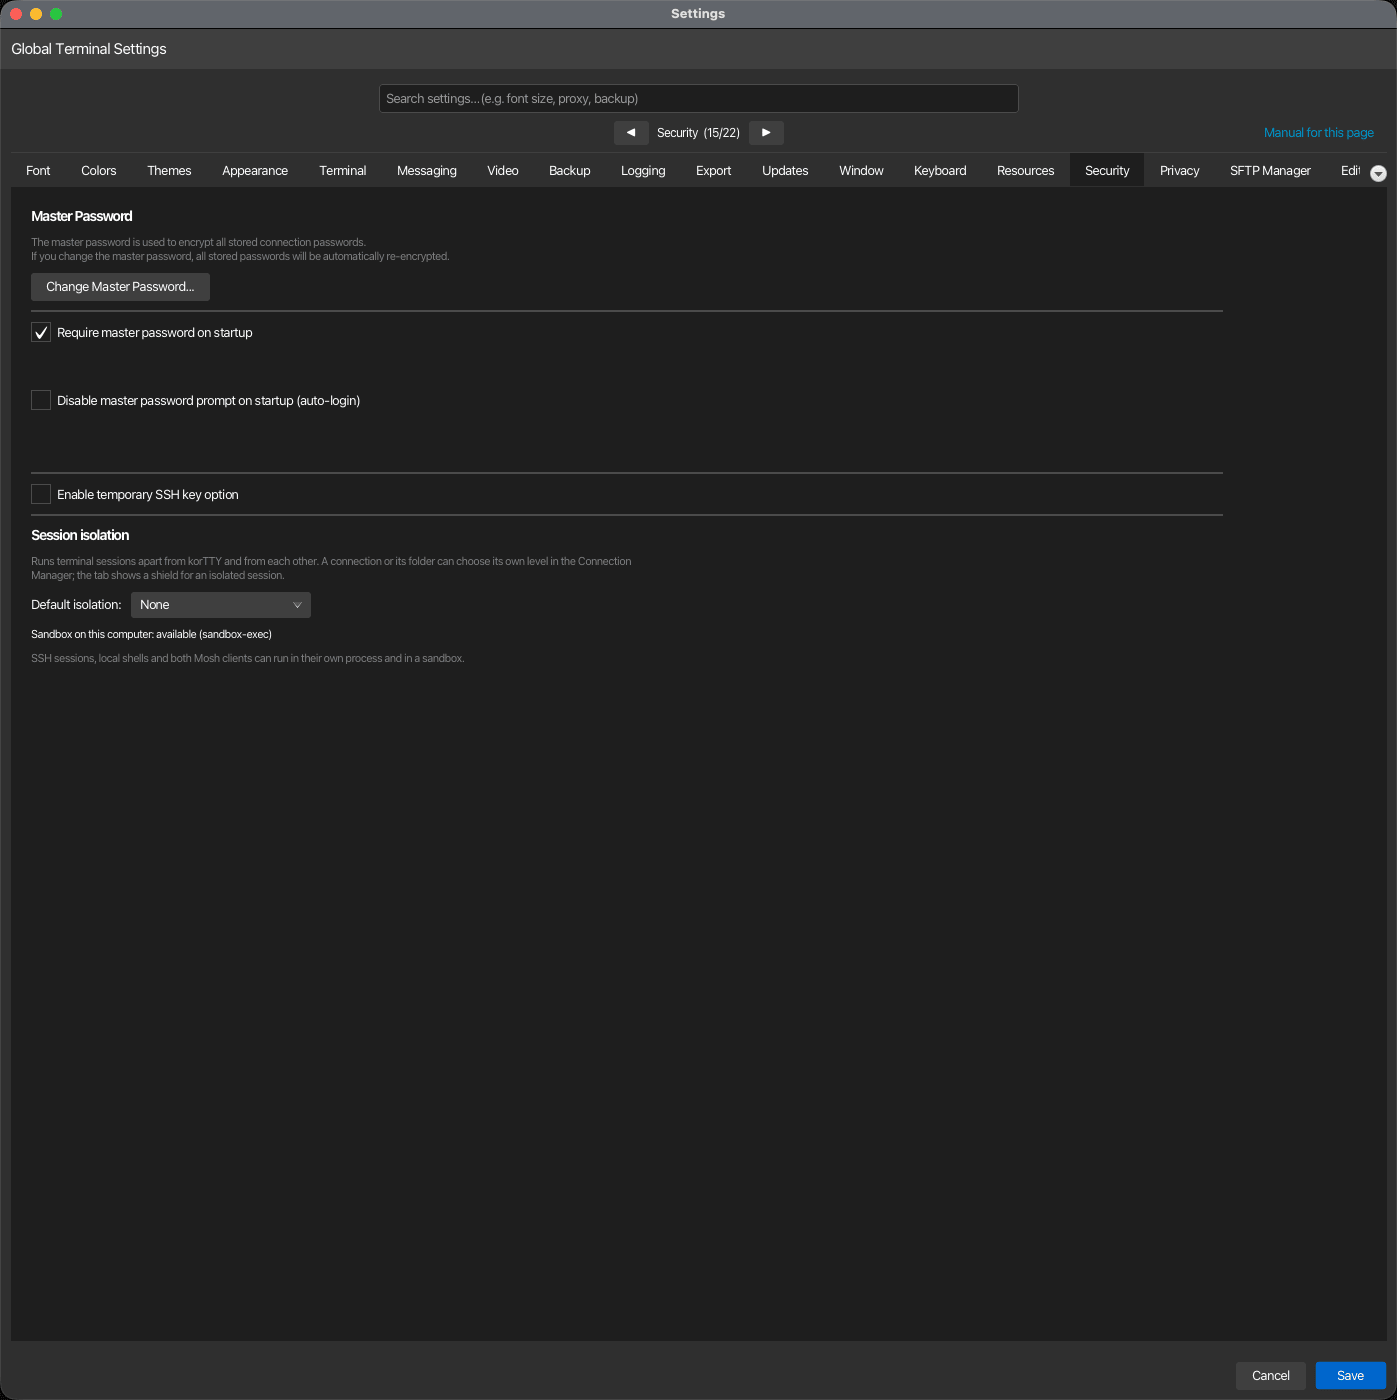
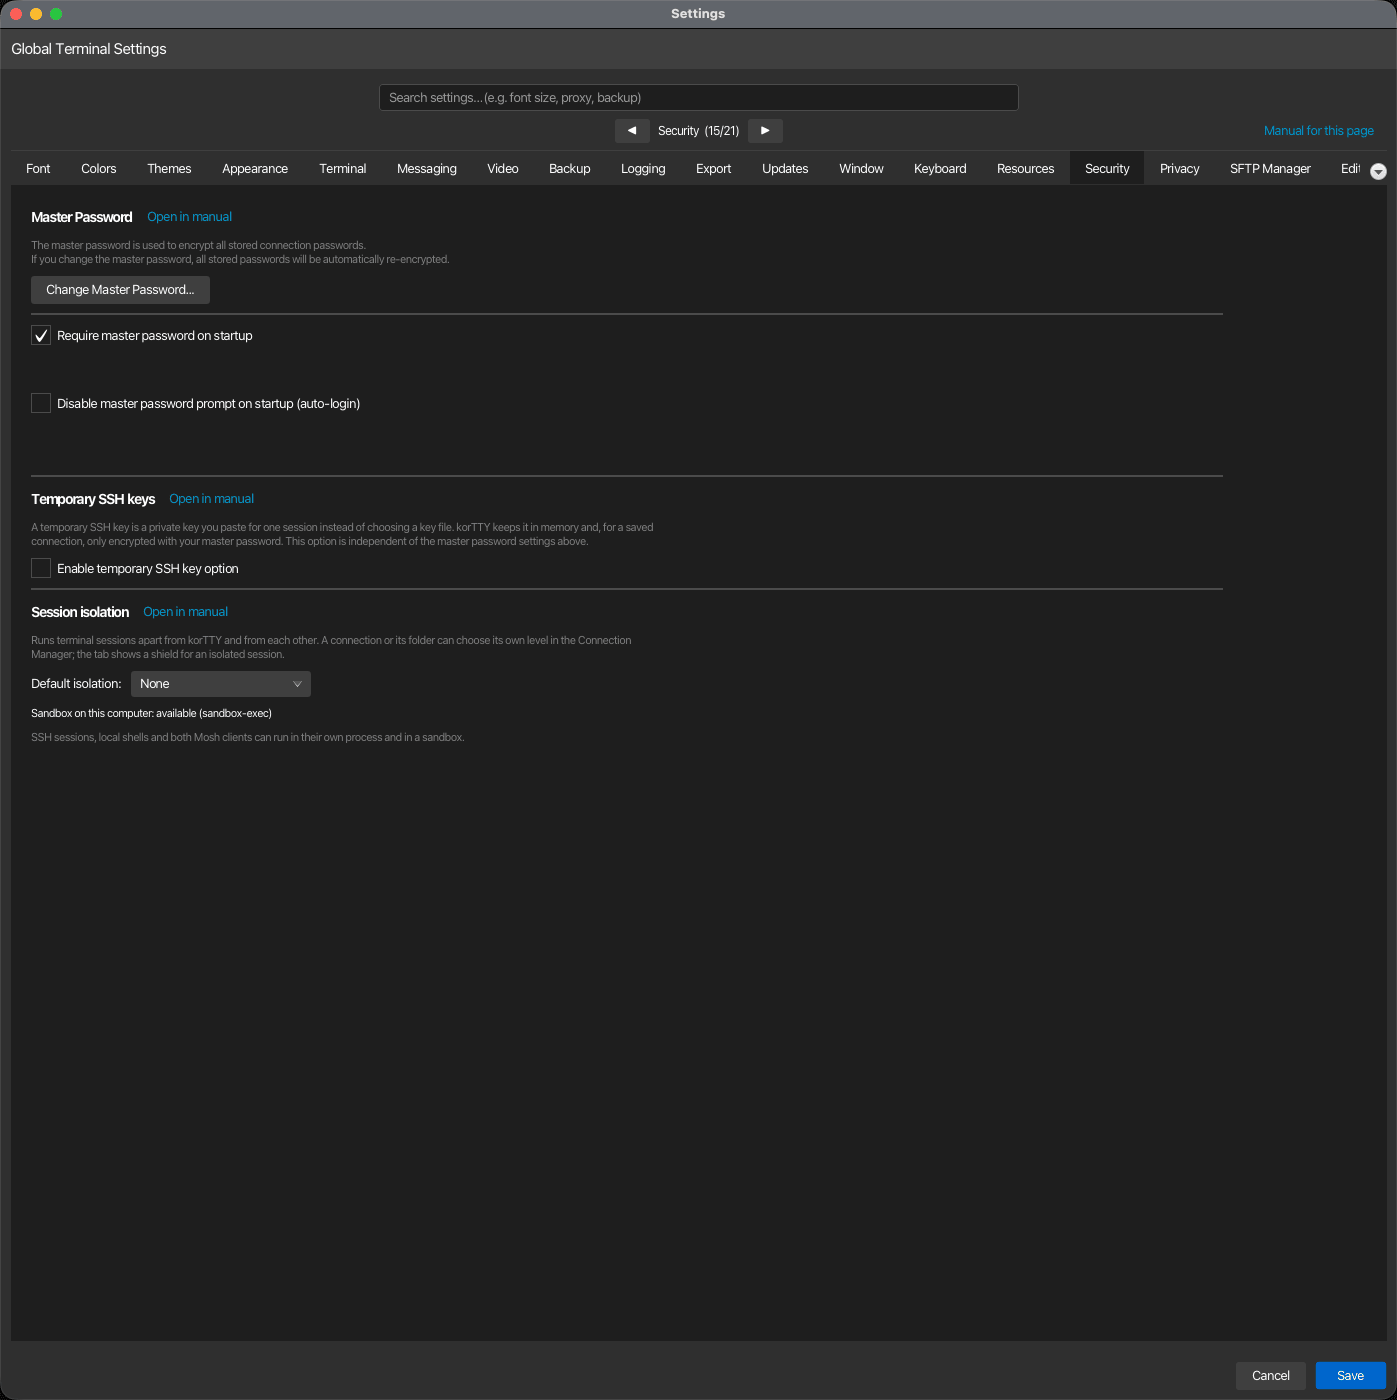
Refresh the guide screenshots of the Settings tabs reworked in #573 to #577
The Logging, Security, Backup, Themes and Translation tabs, the Privacy
tab and the AI Manager's Profiles tab changed in the Global Settings
rework (manual links per section, the automatic backup section, the mock
terminal theme preview, translation profiles, the AI Manager's new General
tab in front of Profiles). Their guide screenshots still showed the old
dialogs.

Re-captured from the real dialogs in the Normal design over a throwaway
home: the five settings tabs on screen with the existing stage, the
Privacy tab and the AI Profiles tab with their headless generators. The
Translation tab is captured with three demo profiles (DeepL as default,
Google Translate, a local model) so it shows a configured list;
SettingsTabScreenshotStage seeds them for that tab only. PNGs are
optimized; last_synced_ref of the seven affected pages is moved to the
merge-base with main. No page text changed, so the German pages are
untouched.

Checked: doc-links, doc-coverage --strict, external-api-check --strict,
SVG and version checks and the English guide build pass.

diff --git a/src/test/java/de/kortty/ui/SettingsTabScreenshotStage.java b/src/test/java/de/kortty/ui/SettingsTabScreenshotStage.java
@@ -118,6 +118,20 @@ public final class SettingsTabScreenshotStage {
             settings.getDefaultTerminalSettings().setThemeId(themeId.trim());
         }
 
+        if ("settings.tab.translation".equals(tabKey)) {
+            // A throwaway demo list so the Translation tab shows what a configured installation looks like.
+            de.kortty.model.TranslationProfile deepl = new de.kortty.model.TranslationProfile(
+                "DeepL (work)", de.kortty.model.TranslationApiProvider.DEEPL);
+            deepl.setEncryptedApiKey("demo");
+            de.kortty.model.TranslationProfile google = new de.kortty.model.TranslationProfile(
+                "Google Translate", de.kortty.model.TranslationApiProvider.GOOGLE_TRANSLATE);
+            google.setEncryptedApiKey("demo");
+            de.kortty.model.TranslationProfile local = new de.kortty.model.TranslationProfile(
+                "Local model (private)", de.kortty.model.TranslationApiProvider.LOCAL_AI_PROFILE);
+            settings.setTranslationProfiles(java.util.List.of(deepl, google, local));
+            settings.setDefaultTranslationProfileId(deepl.getId());
+        }
+
         SettingsDialog dialog = new SettingsDialog(
             null, applicationWithThemes(isolatedHome.resolve(".kortty")),
             new ConfigurationManager(isolatedHome), settings,
